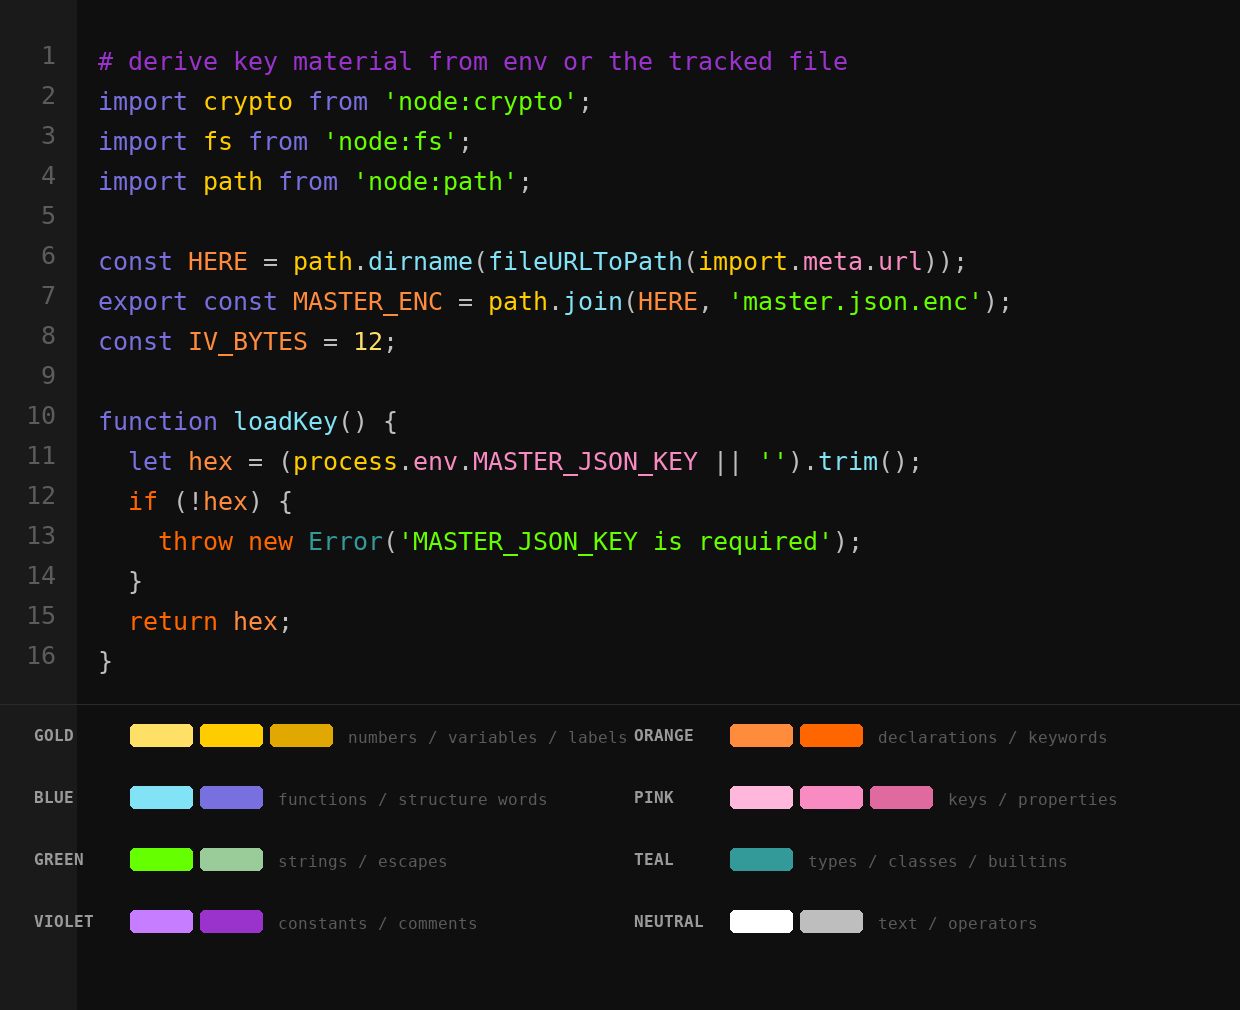
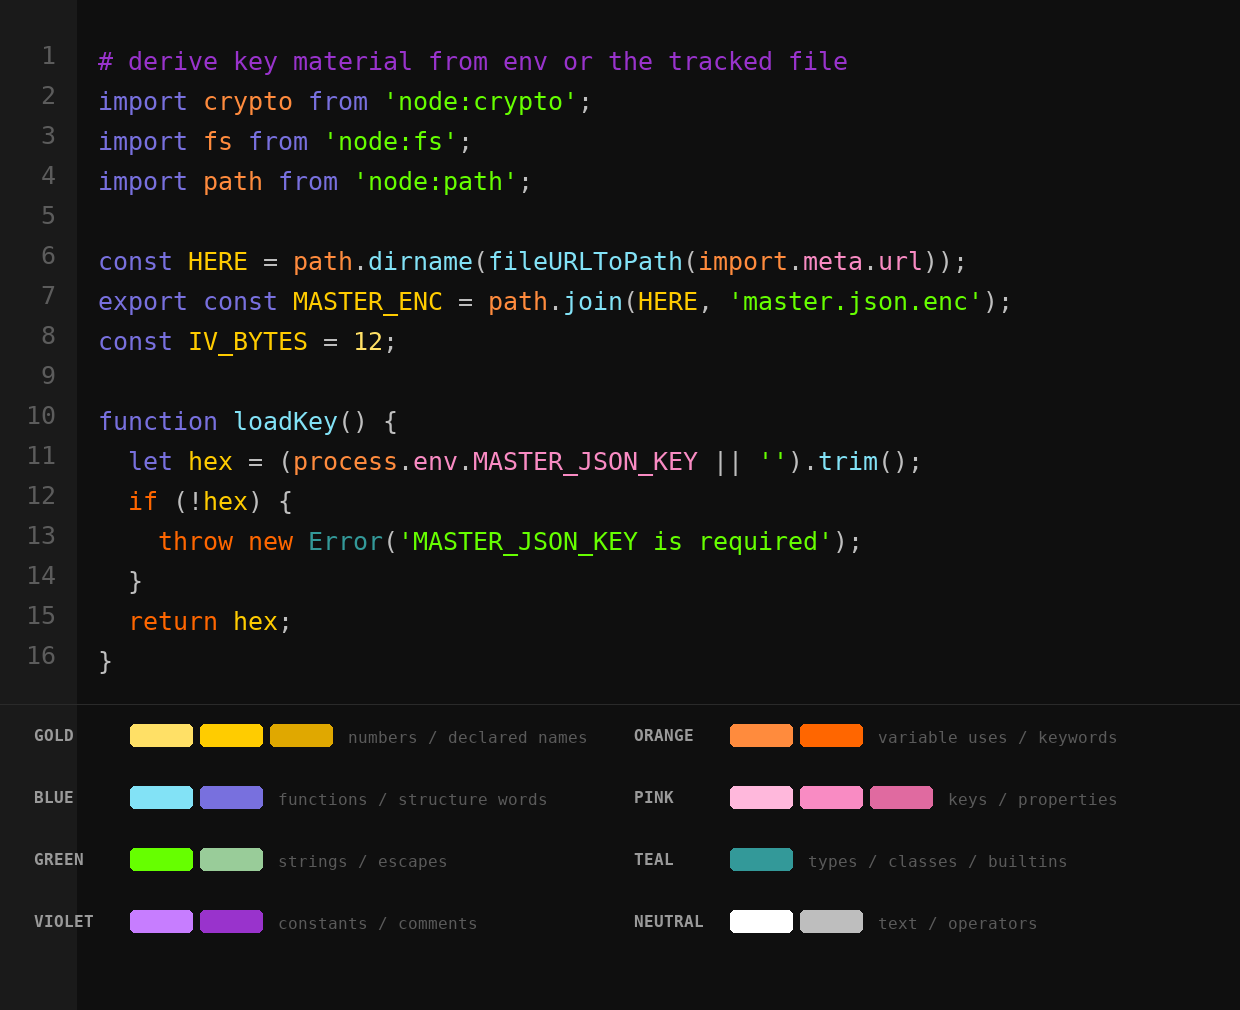
Swap GOLD and ORANGE-LIGHT between variable uses and declarations
hex (let hex = ...) is now gold; process and other plain uses take the
orange-light rung.

diff --git a/acode-theme/main.js b/acode-theme/main.js
@@ -39,12 +39,12 @@
     searchMatch: "#FFCC00",
     searchMatchSelected: "#FFCC00",
 
-    // ---- GOLD · numbers, variables, rare names ----
+    // ---- GOLD · numbers, declared names, rare names ----
     goldLight: "#FFE066",
     gold: "#FFCC00",
     goldDeep: "#E0A800",
 
-    // ---- ORANGE · declarations, control keywords ----
+    // ---- ORANGE · variable uses, control keywords ----
     orangeLight: "#FF8B3D",
     orange: "#FF6600",
 
@@ -101,15 +101,15 @@
       { tag: t.moduleKeyword, color: p.blue },
       { tag: t.definitionKeyword, color: p.blue },
 
-      // ---- GOLD · names in use ----
-      { tag: t.variableName, color: p.gold },
+      // ---- ORANGE (light) · names in use ----
+      { tag: t.variableName, color: p.orangeLight },
       { tag: t.labelName, color: p.goldDeep },
       { tag: t.namespace, color: p.goldDeep },
       { tag: t.macroName, color: p.goldDeep },
 
-      // ---- ORANGE (light) · names being born ----
-      { tag: t.definition(t.variableName), color: p.orangeLight },
-      { tag: t.local(t.variableName), color: p.orangeLight },
+      // ---- GOLD · names being born ----
+      { tag: t.definition(t.variableName), color: p.gold },
+      { tag: t.local(t.variableName), color: p.gold },
 
       // ---- BLUE (sky) · functions ----
       { tag: t.function(t.variableName), color: p.sky },
@@ -329,7 +329,7 @@
         number: palette.goldLight,
         comment: palette.violet,
         function: palette.sky,
-        variable: palette.gold,
+        variable: palette.orangeLight,
         type: palette.teal,
         class: palette.teal,
         constant: palette.violetLight,

diff --git a/acode-theme/render_preview.py b/acode-theme/render_preview.py
@@ -26,8 +26,8 @@ DIM, WHITE = "#BEBEBE", "#FFFFFF"
 
 K = BLUE        # structure keywords  import / export / const / function
 KC = ORANGE     # control keywords    if / return / throw / new
-V = GOLD        # variable use
-ND = ORANGE_L   # declaration name    const X = ...
+V = ORANGE_L    # variable use
+ND = GOLD       # declaration name    const X = ...
 FN = SKY        # function / method
 P = PINK        # property
 S = LIME        # string
@@ -60,8 +60,8 @@ CODE = [
 ]
 
 FAMILIES = [
-    ("GOLD", [GOLD_L, GOLD, GOLD_D], "numbers / variables / labels"),
-    ("ORANGE", [ORANGE_L, ORANGE], "declarations / keywords"),
+    ("GOLD", [GOLD_L, GOLD, GOLD_D], "numbers / declared names"),
+    ("ORANGE", [ORANGE_L, ORANGE], "variable uses / keywords"),
     ("BLUE", [SKY, BLUE], "functions / structure words"),
     ("PINK", [PINK_L, PINK, PINK_D], "keys / properties"),
     ("GREEN", [LIME, GREEN_M], "strings / escapes"),
@@ -113,5 +113,6 @@ for idx, (name, colors, sub) in enumerate(FAMILIES):
         sx += 70
     d.text((sx + 8, cy + 2), sub, font=SM, fill="#5A5A5A")
 
-img.save("/home/user/acode-theme/preview.png")
+import os
+img.save(os.path.join(os.path.dirname(os.path.abspath(__file__)), "preview.png"))
 print("saved", img.size)
